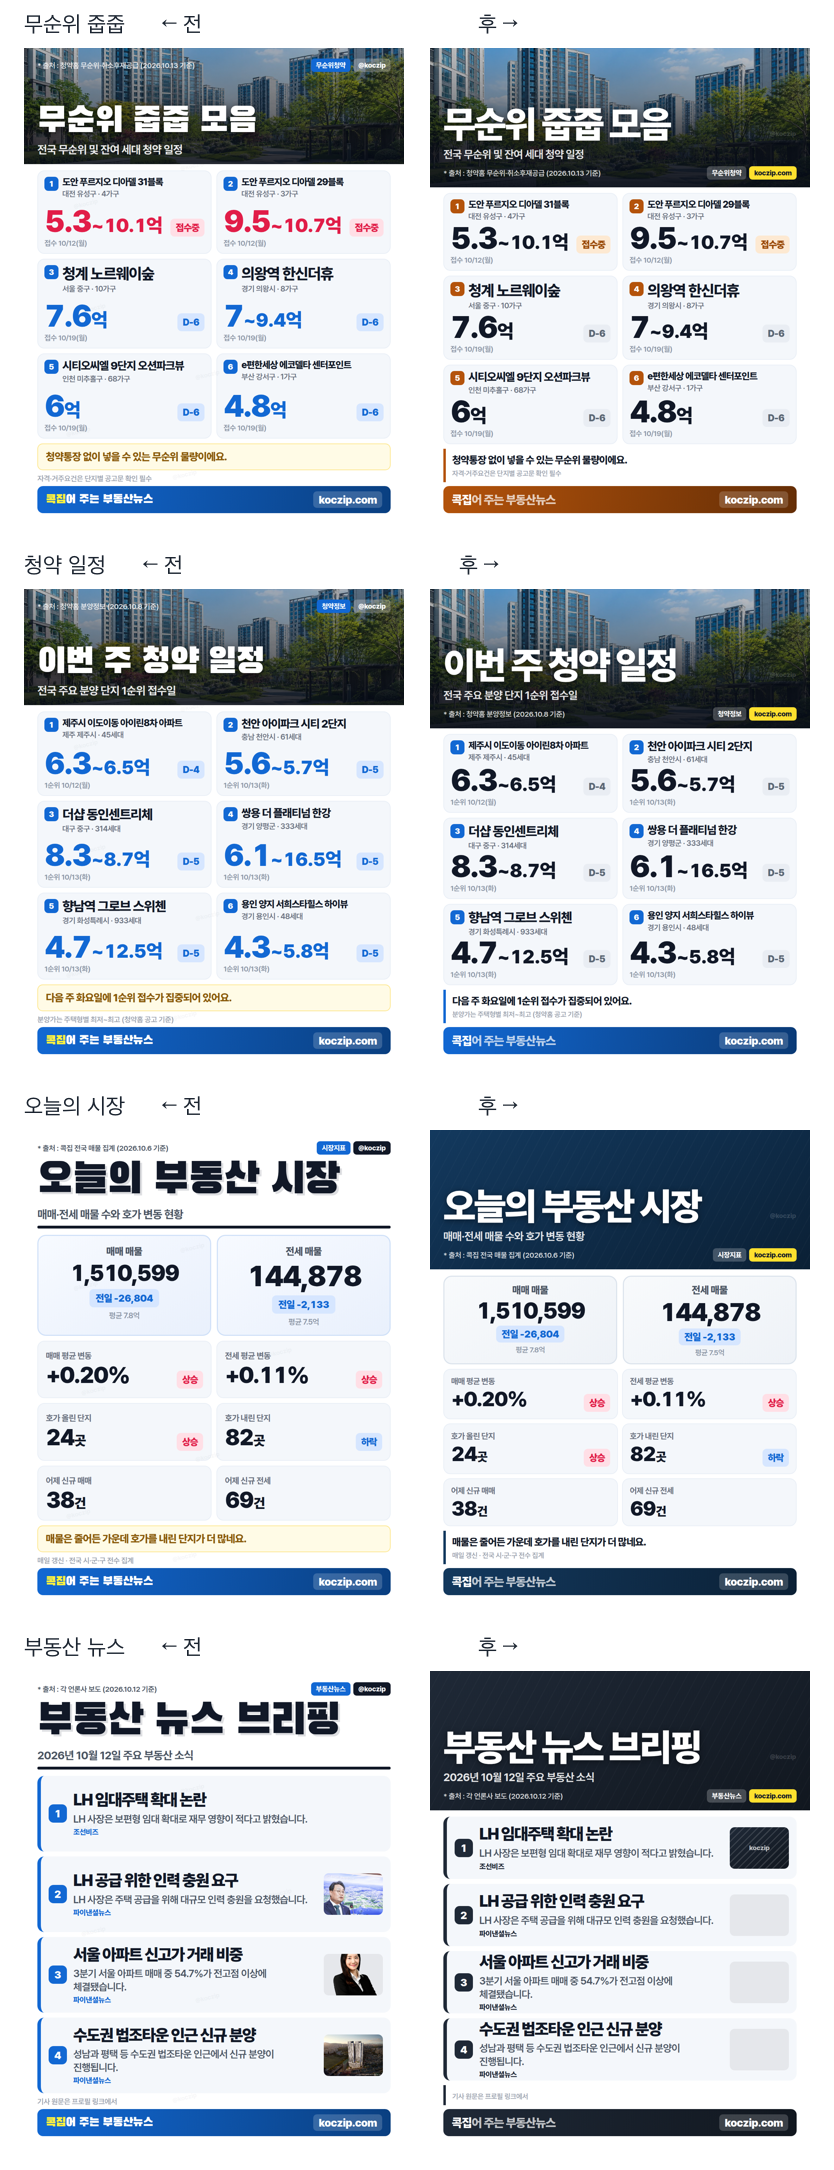
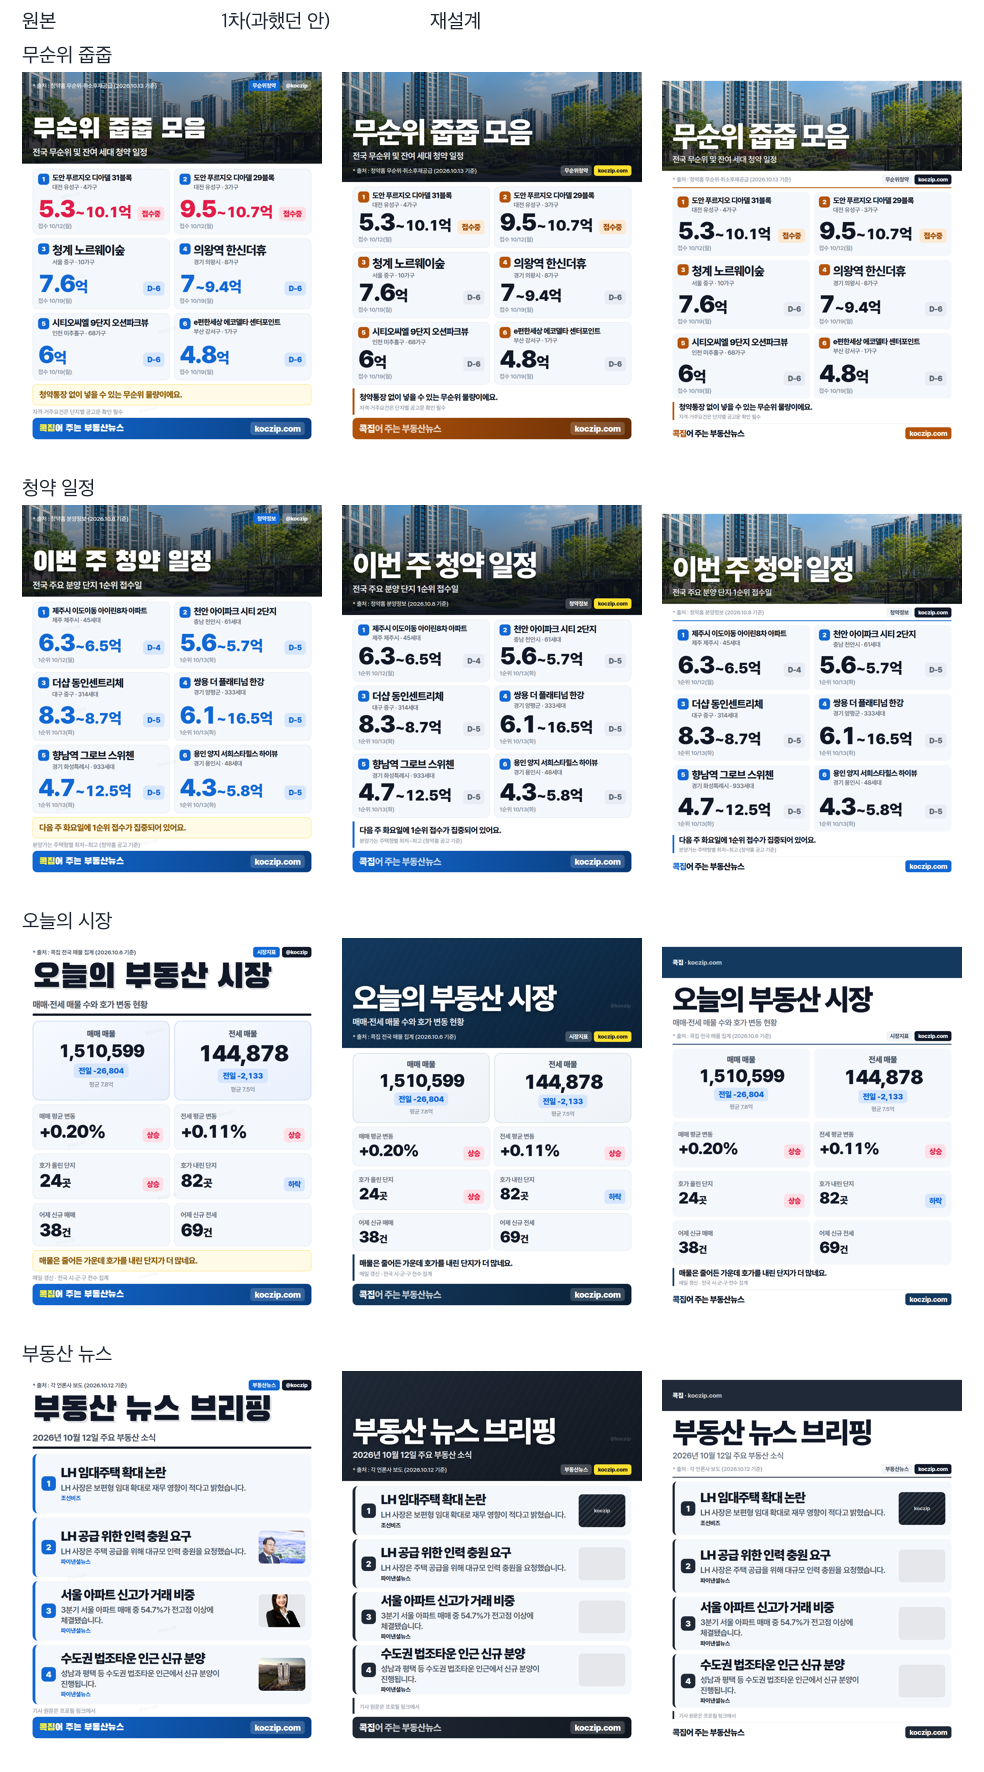
카드뉴스 v2 재설계 기록 — 1차가 데이터 영역을 깎은 것을 되돌림
머리띠를 396→324px 로 줄이고 출처 줄을 띠 바깥으로 내려 안전영역을
싸게 해결했다. 사진 없는 카드는 다크 밴드 대신 얇은 색 리본,
푸터는 그라디언트 띠 대신 선 하나. 격자 실측 709 → 743px(원본 757).

Claude-Session: https://claude.ai/code/session_01DsxQGdj4A9rpDhn5d45phc

diff --git a/design/cardnews_v2/적용기록.md b/design/cardnews_v2/적용기록.md
@@ -27,3 +27,40 @@
 - **⑩ 규격** — 1:1 · 9:16 · OG.
 
 비교 이미지: `before_after.png`
+
+
+---
+
+# 재설계 (같은 날, 2차)
+
+1차가 **더 구려졌다**는 피드백을 받았다. 맞는 지적이었다. 원인은 하나다 —
+1:1 안전영역을 맞추겠다고 머리띠를 330 → **396px** 로 키웠고, 그만큼
+데이터 영역이 깎였다. 이 템플릿은 *숫자가 크게 때리는 것*이 전부인데
+그 자리를 내가 가져간 것이다. 본말전도였다.
+
+격자(데이터) 영역 실측 — 같은 카드, 같은 데이터 기준:
+
+| | 격자 높이 | |
+|---|---|---|
+| 원본 | **757px** | |
+| 1차 | 709px | −48 (더 좁아짐) |
+| 재설계 | **743px** | −14 (사실상 복구) |
+
+## 무엇을 바꿨나
+
+- **띠를 396 → 324px 로 되돌리고**, 출처·분류·브랜드 줄을 띠 *바깥* 흰 바탕으로
+  내렸다. 띠가 제목만 지면 바닥정렬로도 제목 윗변이 y≈141 이라 안전선을 넘는다.
+  예전 굵은 구분선(rule) 자리를 대신하므로 높이도 거의 안 먹는다.
+- **사진 없는 카드는 어두운 그라디언트 대신 얇은 색 리본(112px)** 만 깔고,
+  제목은 흰 바탕에 검게 쓴다. 1차의 전면 다크 밴드가 카드를 무겁게 만들었다.
+  리본에는 작은 워드마크를 넣어 '제호'로 읽히게 했다.
+- **푸터의 꽉 찬 그라디언트 띠를 걷어내고** 선 하나 위에 가볍게 올렸다.
+  색면이 크면 정작 데이터가 뒤로 밀린다.
+- **칸의 테두리를 없앴다**(2~3px 선 + 라운드 20 → 라운드 16, 선 없음).
+  모든 블록에 같은 테두리·그림자를 주면 위계가 평평해진다.
+- 제목은 데이터에 자리를 내주고 한 단계 물러섰다(122 → 104px).
+
+1차에서 **유지한 것**: 등락↔상태 팔레트 분리, 카드별 색, 워터마크 1개,
+Pretendard 900 제목, 뉴스 썸네일 폴백, 하단 2층 → 1층.
+
+비교 이미지 `before_after.png` 는 원본 · 1차 · 재설계 3단 비교다.
